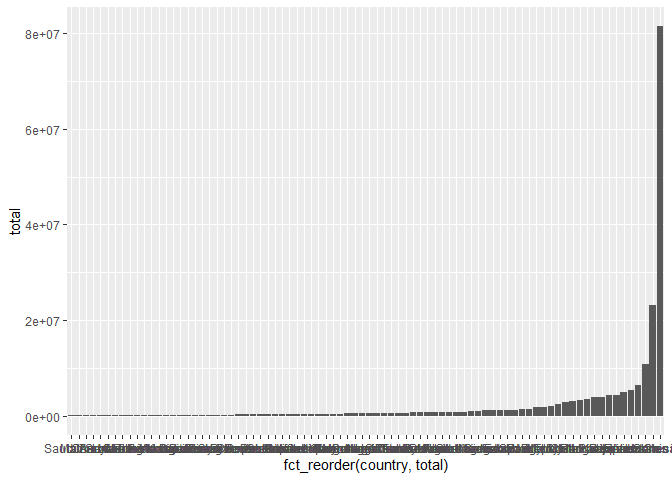
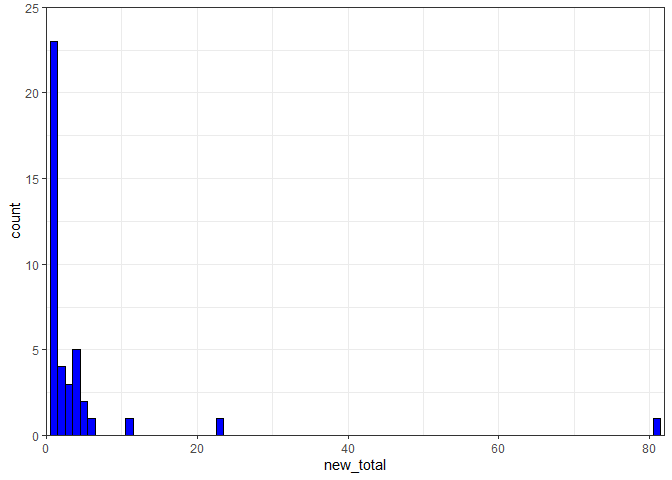
Attempts

Changed region(s): [[0.0, 0.0312, 1.0, 1.0], [0.0312, 0.0, 0.0625, 0.0312]]

diff --git a/lab-06.md b/lab-06.md
@@ -44,6 +44,9 @@ staff_long
 
 ### Exercise 1
 
+Here is a new graph displaying how the proportion of different faculty
+types making up new hires has changed over time.
+
 ``` r
 staff_long %>%
   ggplot(aes(x = year, y = value, group = faculty_type, color = faculty_type))+
@@ -63,6 +66,20 @@ staff_long %>%
 ![](lab-06_files/figure-gfm/making-first-plot-1.png)<!-- -->
 
 ### Exercise 2
+
+I do think the plot does an ok job displaying how the proportion of
+part-time faculty has increased dramatically compared to other
+instructors, but this piece of information is obscured a little bit by
+the amount of things happening in the plot, and that they are all about
+equally prominent in the graph. For that reason, I want to propose
+making 2 changes to the plot.
+
+1.  Combining all full-time faculty into 1 category, so that we are only
+    comparing 3 kinds of instructor types and not cluttering the graph
+    quite so much.
+2.  Making the line for part-time faculty brighter and more colorful
+    than the other lines, so that our attention is drawn to the
+    instructor type that we are most interested in learning about.
 
 ``` r
 staff_long <-  staff_long %>%
@@ -89,6 +106,12 @@ ggplot(data = staff_full, aes(x = year, y = value, group = full_time, color = fu
 
 ![](lab-06_files/figure-gfm/making-new-plot-1.png)<!-- -->
 
+I’m pretty pleased with the result! In particular, it highlights
+something pretty striking that would have been really hard to deduce
+from the previous graph – that since 2007, the proportion of part-time
+faculty hires has actually exceeded the proportion of all full-time
+faculty types combined! :0
+
 ### Exercise 3
 
 ``` r
@@ -106,9 +129,41 @@ fisheries <- read_csv("data/fisheries.csv")
 
 ``` r
 fisheries %>%
+  mutate(new_total = total/1000000) %>%
   filter(total > 100000)%>%
-ggplot(aes(x = fct_reorder(country, total), y = total))+
+ggplot(aes(x = new_total))+
+  geom_histogram(binwidth = 1, color = "black", fill = "blue")+
+  scale_y_continuous(expand = c(0, 0), limits = c(0, 25))+
+  scale_x_continuous(expand = c(0, 0), limits = c(0, 82))+
+  theme_bw()
+```
+
+    ## Warning: Removed 2 rows containing missing values (`geom_bar()`).
+
+![](lab-06_files/figure-gfm/doin-stuff-1.png)<!-- -->
+
+``` r
+fish_long <- fisheries %>%
+  pivot_longer(cols = c(-total, -country), names_to = "type") %>%
+  mutate(value = as.numeric(value))
+
+fish_long %>%
+  mutate(new_country = case_when(
+    country == "China" ~ "China",
+    country == "Indonesia" ~ "Indonesia",
+    country == "India" ~ "India",
+    !country %in% c("China", "India", "Indonesia") ~ "Other")) %>%
+  ggplot(aes(x = type, y = value, fill = fct_reorder(new_country, total)))+
   geom_bar(stat = "identity")
 ```
 
-![](lab-06_files/figure-gfm/doin-stuff-1.png)<!-- -->
+![](lab-06_files/figure-gfm/try-something-better-1.png)<!-- -->
+
+``` r
+fish_long %>%
+  filter(!country %in% c("China", "India", "Indonesia"), total > 1000000)%>%
+  ggplot(aes(x = type, y = value, fill = fct_reorder(country, total)))+
+  geom_bar(stat = "identity")
+```
+
+![](lab-06_files/figure-gfm/try-something-better-2.png)<!-- -->
